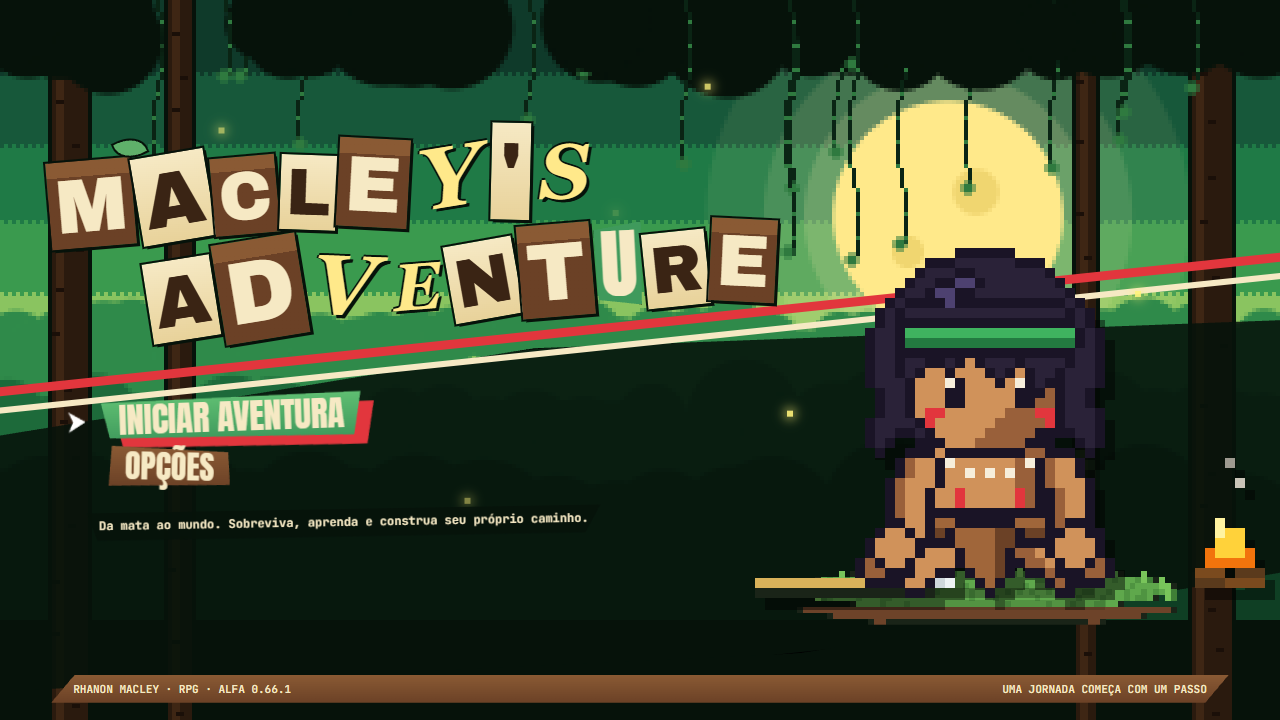
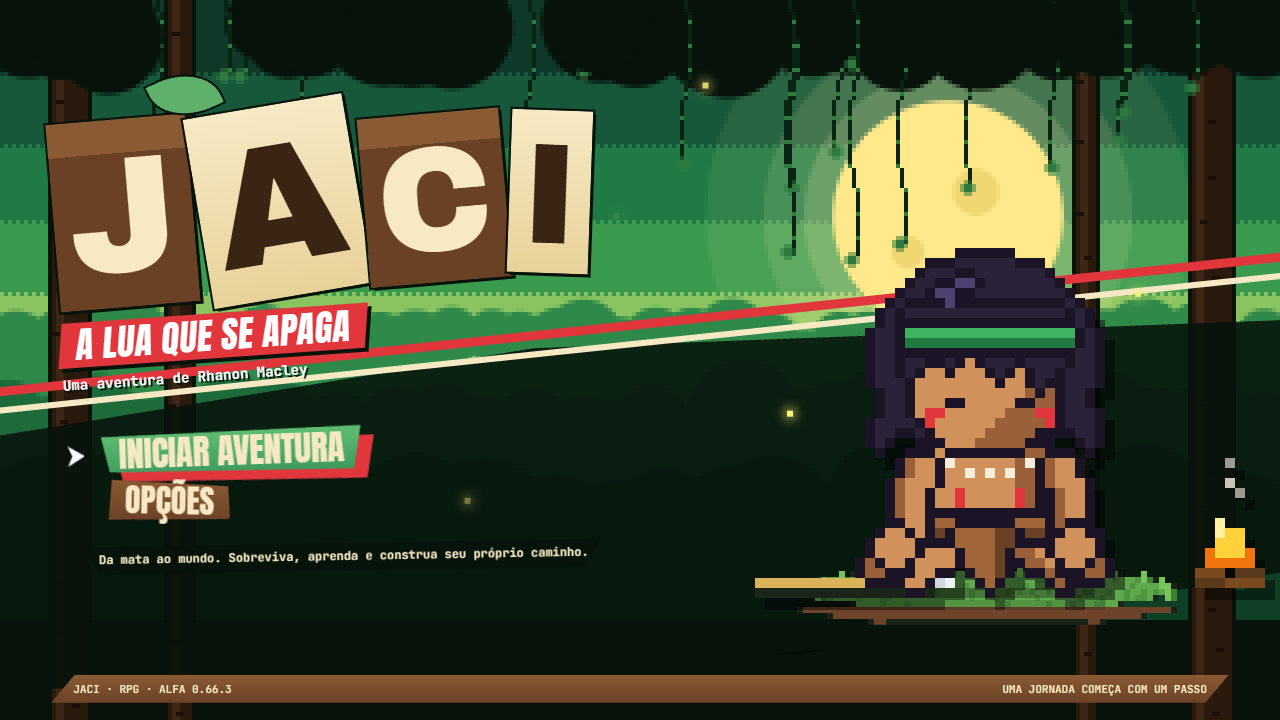
Publica versão 0.66.4

diff --git a/index.html b/index.html
@@ -3,9 +3,9 @@
 <head>
 <meta charset="utf-8">
 <meta name="viewport" content="width=device-width, initial-scale=1, viewport-fit=cover">
-<title>Rhanon Macley — RPG (offline)</title>
+<title>Jaci: A Lua que se Apaga</title>
 <link rel="stylesheet" href="https://fonts.googleapis.com/css2?family=Anton&family=Archivo+Black&family=Luckiest+Guy&family=JetBrains+Mono:wght@400;700&display=swap">
-<link rel="stylesheet" href="styles.css?v=0.66.3">
+<link rel="stylesheet" href="styles.css?v=0.66.4">
 </head>
 <body>
 <div class="bg" aria-hidden="true">
@@ -24,11 +24,12 @@
 <section class="title-screen" id="titleScreen" aria-label="Tela inicial do jogo">
   <canvas class="title-bg" id="titleBg" aria-hidden="true"></canvas><div class="title-flies" aria-hidden="true"><i></i><i></i><i></i><i></i><i></i><i></i><i></i><i></i><i></i><i></i></div>
   <div class="title-copy">
-    <h1 class="title" id="titleLogo" aria-label="Macley's Adventure"></h1>
+    <h1 class="title" id="titleLogo" aria-label="Jaci"></h1>
+    <p class="title-sub"><b>A Lua que se Apaga</b><small>Uma aventura de Rhanon Macley</small></p>
     <nav class="t-menu"><button class="cmd sel" id="startAdventure" type="button"><span>Iniciar aventura</span></button><button class="cmd" id="titleOptions" type="button"><span>Opções</span></button><p class="desc">Da mata ao mundo. Sobreviva, aprenda e construa seu próprio caminho.</p></nav>
   </div>
   <div class="title-art" id="titleArt" aria-hidden="true"></div>
-  <div class="title-bottom"><span>RHANON MACLEY · RPG · <b id="gameVersion"></b></span><span>UMA JORNADA COMEÇA COM UM PASSO</span></div>
+  <div class="title-bottom"><span>JACI · RPG · <b id="gameVersion"></b></span><span>UMA JORNADA COMEÇA COM UM PASSO</span></div>
 </section>
 <main class="game" id="game">
   <canvas class="scene-bg" id="sceneBg" aria-hidden="true"></canvas>
@@ -141,46 +142,46 @@
   </div>
 </main>
 <!-- Ordem importa: utilidades e estado, depois dados, depois quem usa os dados. main.js por último. -->
-<script src="js/core/version.js?v=0.66.3"></script>
-<script src="js/core/utils.js?v=0.66.3"></script>
-<script src="js/core/lang.js?v=0.66.3"></script>   <!-- pede sozinho o js/data/lang/<idioma>.js escolhido -->
-<script src="js/core/state.js?v=0.66.3"></script>
-<script src="js/core/assets.js?v=0.66.3"></script>
-<script src="js/data/sprites.js?v=0.66.3"></script>
-<script src="js/data/animals.js?v=0.66.3"></script>
-<script src="js/data/commands.js?v=0.66.3"></script>
-<script src="js/data/skills.js?v=0.66.3"></script>
-<script src="js/data/narration.js?v=0.66.3"></script>
-<script src="js/data/questions.js?v=0.66.3"></script>
-<script src="js/data/world.js?v=0.66.3"></script>
-<script src="js/data/stages.js?v=0.66.3"></script>
-<script src="js/data/art.js?v=0.66.3"></script>
-<script src="js/audio/sfx.js?v=0.66.3"></script>
-<script src="js/audio/music.js?v=0.66.3"></script>
-<script src="js/gfx/sprites.js?v=0.66.3"></script>
-<script src="js/gfx/rig.js?v=0.66.3"></script>
-<script src="js/gfx/beasts.js?v=0.66.3"></script>
-<script src="js/gfx/fx.js?v=0.66.3"></script>
-<script src="js/gfx/actors.js?v=0.66.3"></script>
-<script src="js/gfx/tiles.js?v=0.66.3"></script>
-<script src="js/gfx/scenery.js?v=0.66.3"></script>
-<script src="js/gfx/mapart.js?v=0.66.3"></script>
-<script src="js/ui/screen-fx.js?v=0.66.3"></script>
-<script src="js/ui/theme.js?v=0.66.3"></script>
-<script src="js/ui/options.js?v=0.66.3"></script>
-<script src="js/ui/cutin.js?v=0.66.3"></script>
-<script src="js/ui/mapnav.js?v=0.66.3"></script>
-<script src="js/ui/gamepad.js?v=0.66.3"></script>
-<script src="js/ui/narration.js?v=0.66.3"></script>
-<script src="js/systems/combat.js?v=0.66.3"></script>
-<script src="js/systems/challenge.js?v=0.66.3"></script>
-<script src="js/systems/world-map.js?v=0.66.3"></script>
-<script src="js/systems/local.js?v=0.66.3"></script>
-<script src="js/systems/journal.js?v=0.66.3"></script>
-<script src="js/systems/equip.js?v=0.66.3"></script>
-<script src="js/systems/skills.js?v=0.66.3"></script>
-<script src="js/systems/explore.js?v=0.66.3"></script>
-<script src="js/systems/secrets.js?v=0.66.3"></script>
-<script src="js/main.js?v=0.66.3"></script>
+<script src="js/core/version.js?v=0.66.4"></script>
+<script src="js/core/utils.js?v=0.66.4"></script>
+<script src="js/core/lang.js?v=0.66.4"></script>   <!-- pede sozinho o js/data/lang/<idioma>.js escolhido -->
+<script src="js/core/state.js?v=0.66.4"></script>
+<script src="js/core/assets.js?v=0.66.4"></script>
+<script src="js/data/sprites.js?v=0.66.4"></script>
+<script src="js/data/animals.js?v=0.66.4"></script>
+<script src="js/data/commands.js?v=0.66.4"></script>
+<script src="js/data/skills.js?v=0.66.4"></script>
+<script src="js/data/narration.js?v=0.66.4"></script>
+<script src="js/data/questions.js?v=0.66.4"></script>
+<script src="js/data/world.js?v=0.66.4"></script>
+<script src="js/data/stages.js?v=0.66.4"></script>
+<script src="js/data/art.js?v=0.66.4"></script>
+<script src="js/audio/sfx.js?v=0.66.4"></script>
+<script src="js/audio/music.js?v=0.66.4"></script>
+<script src="js/gfx/sprites.js?v=0.66.4"></script>
+<script src="js/gfx/rig.js?v=0.66.4"></script>
+<script src="js/gfx/beasts.js?v=0.66.4"></script>
+<script src="js/gfx/fx.js?v=0.66.4"></script>
+<script src="js/gfx/actors.js?v=0.66.4"></script>
+<script src="js/gfx/tiles.js?v=0.66.4"></script>
+<script src="js/gfx/scenery.js?v=0.66.4"></script>
+<script src="js/gfx/mapart.js?v=0.66.4"></script>
+<script src="js/ui/screen-fx.js?v=0.66.4"></script>
+<script src="js/ui/theme.js?v=0.66.4"></script>
+<script src="js/ui/options.js?v=0.66.4"></script>
+<script src="js/ui/cutin.js?v=0.66.4"></script>
+<script src="js/ui/mapnav.js?v=0.66.4"></script>
+<script src="js/ui/gamepad.js?v=0.66.4"></script>
+<script src="js/ui/narration.js?v=0.66.4"></script>
+<script src="js/systems/combat.js?v=0.66.4"></script>
+<script src="js/systems/challenge.js?v=0.66.4"></script>
+<script src="js/systems/world-map.js?v=0.66.4"></script>
+<script src="js/systems/local.js?v=0.66.4"></script>
+<script src="js/systems/journal.js?v=0.66.4"></script>
+<script src="js/systems/equip.js?v=0.66.4"></script>
+<script src="js/systems/skills.js?v=0.66.4"></script>
+<script src="js/systems/explore.js?v=0.66.4"></script>
+<script src="js/systems/secrets.js?v=0.66.4"></script>
+<script src="js/main.js?v=0.66.4"></script>
 </body>
 </html>

diff --git a/js/data/lang/fr.js b/js/data/lang/fr.js
@@ -1128,10 +1128,8 @@ TX.fr = {
     "ALFA": "ALPHA",
     "Setas ou WASD: escolher local · Z: confirmar · X: mapa do {mapa}": "Flèches ou WASD : choisir un lieu · Z : valider · X : carte de {mapa}",
     "Voltar ao mapa": "Retour à la carte",
-    "Rhanon Macley — RPG (offline)": "Rhanon Macley — RPG (hors ligne)",
     "Iniciar aventura": "Commencer l'aventure",
     "Da mata ao mundo. Sobreviva, aprenda e construa seu próprio caminho.": "De la forêt au monde. Survis, apprends et trace ton propre chemin.",
-    "RHANON MACLEY · RPG ·": "RHANON MACLEY · RPG ·",
     "UMA JORNADA COMEÇA COM UM PASSO": "UN VOYAGE COMMENCE PAR UN PAS",
     "Nv 4": "Nv 4",
     "TERMINAL // TASK MODE": "TERMINAL // TASK MODE",
@@ -1153,7 +1151,6 @@ TX.fr = {
     "Lutar de novo": "Combattre encore",
     "Caminho aberto": "Chemin ouvert",
     "Tela inicial do jogo": "Écran titre du jeu",
-    "Macley's Adventure": "Macley's Adventure",
     "Visão por cima do ombro de Rhanon, olhando para um monitor": "Vue par-dessus l'épaule de Rhanon, face à un écran",
     "Comandos": "Commandes",
     "Três tempos certos seguidos (golpe perfeito ou bloqueio) liberam a Fúria": "Trois bons timings d'affilée (coup parfait ou blocage) déclenchent la Furie",
@@ -2148,6 +2145,11 @@ TX.fr = {
     "O voo de ida e volta é pago com o dinheiro do mapa de queimadas.": "Le vol aller-retour est payé avec l'argent de la carte des incendies.",
     "Aeroporto de Brasília": "Aéroport de Brasília",
     "Aeroporto de Confins": "Aéroport de Confins",
+    "Jaci: A Lua que se Apaga": "Jaci : La Lune qui s'éteint",
+    "A Lua que se Apaga": "La Lune qui s'éteint",
+    "Uma aventura de Rhanon Macley": "Une aventure de Rhanon Macley",
+    "JACI · RPG ·": "JACI · RPG ·",
+    "Jaci": "Jaci",
     "1 chefe sem acalmar": "1 boss pas encore apaisé",
     "{n} chefes sem acalmar": "{n} boss pas encore apaisés",
     "o freela de {cliente}": "le freelance de {cliente}",

diff --git a/js/data/lang/es.js b/js/data/lang/es.js
@@ -1125,10 +1125,8 @@ TX.es = {
     "ALFA": "ALFA",
     "Setas ou WASD: escolher local · Z: confirmar · X: mapa do {mapa}": "Flechas o WASD: elegir lugar · Z: confirmar · X: mapa de {mapa}",
     "Voltar ao mapa": "Volver al mapa",
-    "Rhanon Macley — RPG (offline)": "Rhanon Macley — RPG (offline)",
     "Iniciar aventura": "Iniciar aventura",
     "Da mata ao mundo. Sobreviva, aprenda e construa seu próprio caminho.": "De la selva al mundo. Sobrevive, aprende y construye tu propio camino.",
-    "RHANON MACLEY · RPG ·": "RHANON MACLEY · RPG ·",
     "UMA JORNADA COMEÇA COM UM PASSO": "UN VIAJE EMPIEZA CON UN PASO",
     "Nv 4": "Nv 4",
     "TERMINAL // TASK MODE": "TERMINAL // TASK MODE",
@@ -1150,7 +1148,6 @@ TX.es = {
     "Lutar de novo": "Pelear otra vez",
     "Caminho aberto": "Camino abierto",
     "Tela inicial do jogo": "Pantalla de inicio del juego",
-    "Macley's Adventure": "Macley's Adventure",
     "Visão por cima do ombro de Rhanon, olhando para um monitor": "Vista por encima del hombro de Rhanon, mirando un monitor",
     "Comandos": "Comandos",
     "Três tempos certos seguidos (golpe perfeito ou bloqueio) liberam a Fúria": "Tres tiempos perfectos seguidos (golpe perfecto o bloqueo) liberan la Furia",
@@ -2145,6 +2142,11 @@ TX.es = {
     "O voo de ida e volta é pago com o dinheiro do mapa de queimadas.": "El vuelo de ida y vuelta se paga con el dinero del mapa de incendios.",
     "Aeroporto de Brasília": "Aeropuerto de Brasília",
     "Aeroporto de Confins": "Aeropuerto de Confins",
+    "Jaci: A Lua que se Apaga": "Jaci: La Luna que se Apaga",
+    "A Lua que se Apaga": "La Luna que se Apaga",
+    "Uma aventura de Rhanon Macley": "Una aventura de Rhanon Macley",
+    "JACI · RPG ·": "JACI · RPG ·",
+    "Jaci": "Jaci",
     "1 chefe sem acalmar": "1 jefe sin calmar",
     "{n} chefes sem acalmar": "{n} jefes sin calmar",
     "o freela de {cliente}": "el trabajo freelance de {cliente}",

diff --git a/js/data/lang/en.js b/js/data/lang/en.js
@@ -1122,10 +1122,8 @@ TX.en = {
     "ALFA": "ALPHA",
     "Setas ou WASD: escolher local · Z: confirmar · X: mapa do {mapa}": "Arrows or WASD: choose a place · Z: confirm · X: map of {mapa}",
     "Voltar ao mapa": "Back to the map",
-    "Rhanon Macley — RPG (offline)": "Rhanon Macley — RPG (offline)",
     "Iniciar aventura": "Start adventure",
     "Da mata ao mundo. Sobreviva, aprenda e construa seu próprio caminho.": "From the forest to the world. Survive, learn and build your own path.",
-    "RHANON MACLEY · RPG ·": "RHANON MACLEY · RPG ·",
     "UMA JORNADA COMEÇA COM UM PASSO": "A JOURNEY BEGINS WITH A SINGLE STEP",
     "Nv 4": "Lv 4",
     "TERMINAL // TASK MODE": "TERMINAL // TASK MODE",
@@ -1147,7 +1145,6 @@ TX.en = {
     "Lutar de novo": "Fight again",
     "Caminho aberto": "Path open",
     "Tela inicial do jogo": "Game title screen",
-    "Macley's Adventure": "Macley's Adventure",
     "Visão por cima do ombro de Rhanon, olhando para um monitor": "View over Rhanon's shoulder, looking at a monitor",
     "Comandos": "Commands",
     "Três tempos certos seguidos (golpe perfeito ou bloqueio) liberam a Fúria": "Three perfect timings in a row (perfect hit or block) unlock Fury",
@@ -2142,6 +2139,11 @@ TX.en = {
     "O voo de ida e volta é pago com o dinheiro do mapa de queimadas.": "The round-trip flight is paid with the money from the wildfire map.",
     "Aeroporto de Brasília": "Brasília Airport",
     "Aeroporto de Confins": "Confins Airport",
+    "Jaci: A Lua que se Apaga": "Jaci: The Fading Moon",
+    "A Lua que se Apaga": "The Fading Moon",
+    "Uma aventura de Rhanon Macley": "A Rhanon Macley adventure",
+    "JACI · RPG ·": "JACI · RPG ·",
+    "Jaci": "Jaci",
     "1 chefe sem acalmar": "1 boss not calmed yet",
     "{n} chefes sem acalmar": "{n} bosses not calmed yet",
     "o freela de {cliente}": "{cliente}'s freelance job",

diff --git a/styles.css b/styles.css
@@ -445,6 +445,11 @@ body:has(#titleScreen:not([hidden])) .game{visibility:hidden}
 .title-screen[hidden]{display:none!important}
 .title{font-family:var(--body);font-size:clamp(34px,6vw,88px);line-height:1.1;margin:0 0 6vh;rotate:-4deg;transform-origin:left}
 .title .line{display:block;white-space:nowrap}.title .line+.line{margin-left:1.2em}
+#titleLogo{font-size:clamp(70px,13vw,190px);margin-bottom:1.6vh}
+/* subtítulo do jogo (traduzido) e o herói em letra menor, inclinados junto com o logo */
+.title-sub{display:flex;flex-direction:column;align-items:flex-start;gap:8px;margin:0 0 5vh .5em;rotate:-4deg;transform-origin:left}
+.title-sub b{font:400 clamp(20px,2.8vw,40px)/1.1 Anton,Impact,sans-serif;letter-spacing:.5px;text-transform:uppercase;color:var(--paper);background:var(--red);padding:3px 16px;transform:skewX(-8deg);box-shadow:4px 4px 0 var(--ink)}
+.title-sub small{font:700 clamp(11px,1.1vw,15px) var(--mono);color:var(--paper);text-shadow:2px 2px 0 var(--ink)}
 .l{display:inline-block;padding:.02em .09em;margin:0 .015em;rotate:var(--rot);font-size:var(--fs);animation:rpop .5s var(--pop) backwards;animation-delay:calc(var(--d) * 35ms)}
 .l.a{background:var(--paper);color:var(--ink)}.l.b{background:var(--ink);color:var(--paper)}
 .l.c{background:var(--paper);color:var(--accent-ink);font-family:Anton,Impact,sans-serif}

diff --git a/trilha.html b/trilha.html
@@ -3,7 +3,7 @@
 <head>
 <meta charset="utf-8">
 <meta name="viewport" content="width=device-width, initial-scale=1">
-<title>Trilha sonora · Rhanon Macley</title>
+<title>Trilha sonora · Jaci: The Fading Moon</title>
 <link rel="stylesheet" href="https://fonts.googleapis.com/css2?family=Anton&family=JetBrains+Mono:wght@400;700&display=swap">
 <style>
   :root{--ink:#0c1610;--leaf:#173626;--moss:#2a5a3c;--bone:#f4ecd8;--paper:#e8d9b0;--blood:#e03a2f;--gold:#f2a20c;
@@ -32,7 +32,7 @@
 </head>
 <body>
 <main>
-  <div class="top"><a href="./">▶ Jogar Rhanon Macley</a><a href="https://github.com/Ganseblumchen97/rhanon-macley">Página do jogo no GitHub</a></div>
+  <div class="top"><a href="./">▶ Jogar Jaci: The Fading Moon</a><a href="https://github.com/Ganseblumchen97/rhanon-macley">Página do jogo no GitHub</a></div>
   <h1><span>Trilha sonora</span></h1>
   <p class="lead">Toda a música do jogo é composta em código e tocada em tempo real pelo navegador, sem arquivos de áudio.
   Cada personagem e cada região tem um tema fixo, um leitmotif: a mesma melodia volta em arranjos diferentes, na cidade,

diff --git a/js/main.js b/js/main.js
@@ -91,7 +91,7 @@ document.addEventListener("pointerdown", () => {
 document.addEventListener("visibilitychange", () => { if (AC) document.hidden ? AC.suspend() : AC.resume(); });
 
 /* ----- tela inicial ----- */
-ransom($("titleLogo"), ["MACLEY'S", "ADVENTURE"], 7);
+ransom($("titleLogo"), ["JACI"], 7);   // o nome do jogo; o subtítulo (.title-sub) é traduzido
 TITLE_A.mount($("titleArt"));
 drawMap(); themeReady = true;
 $("titleScreen").hidden = false; drawTitleBg();

diff --git a/js/core/version.js b/js/core/version.js
@@ -1,3 +1,3 @@
 /* Versão do jogo (aparece na tela inicial). O publicar.ps1 atualiza este número a cada publicação:
    o do meio sobe com conteúdo novo, o último com correções; as novidades de cada versão ficam em NOVIDADES.md. */
-const GAME_VERSION = "0.66.3";
+const GAME_VERSION = "0.66.4";

diff --git a/NOVIDADES.md b/NOVIDADES.md
@@ -1,7 +1,13 @@
-# Novidades — Rhanon Macley RPG
+# Novidades — Jaci: The Fading Moon
 
 Cada versão publicada ganha um número (alfa 0.MENOR.CORREÇÃO): o número do meio sobe quando entra conteúdo
 novo e o último quando são só correções e ajustes. A versão que está no ar aparece no canto da tela inicial.
+
+## 0.66.4 — o jogo ganhou nome: Jaci
+
+- O jogo agora se chama **Jaci: The Fading Moon** (em português, *Jaci: A Lua que se Apaga*), por causa da lua que o
+  Rhanon tenta salvar. A tela inicial ganhou o logo novo, com o subtítulo no idioma escolhido e "Uma aventura de
+  Rhanon Macley" embaixo. O endereço do jogo continua o mesmo.
 
 ## 0.66.3 — a trilha sonora para ouvir
 

diff --git a/README.md b/README.md
@@ -1,4 +1,6 @@
-# Rhanon Macley — RPG (alfa 0.66.3)
+# Jaci: The Fading Moon (alfa 0.66.4)
+
+*Jaci: A Lua que se Apaga* · uma aventura de Rhanon Macley · RPG de turno no navegador
 
 ### ▶ [Jogar no navegador](https://ganseblumchen97.github.io/rhanon-macley/)
 
